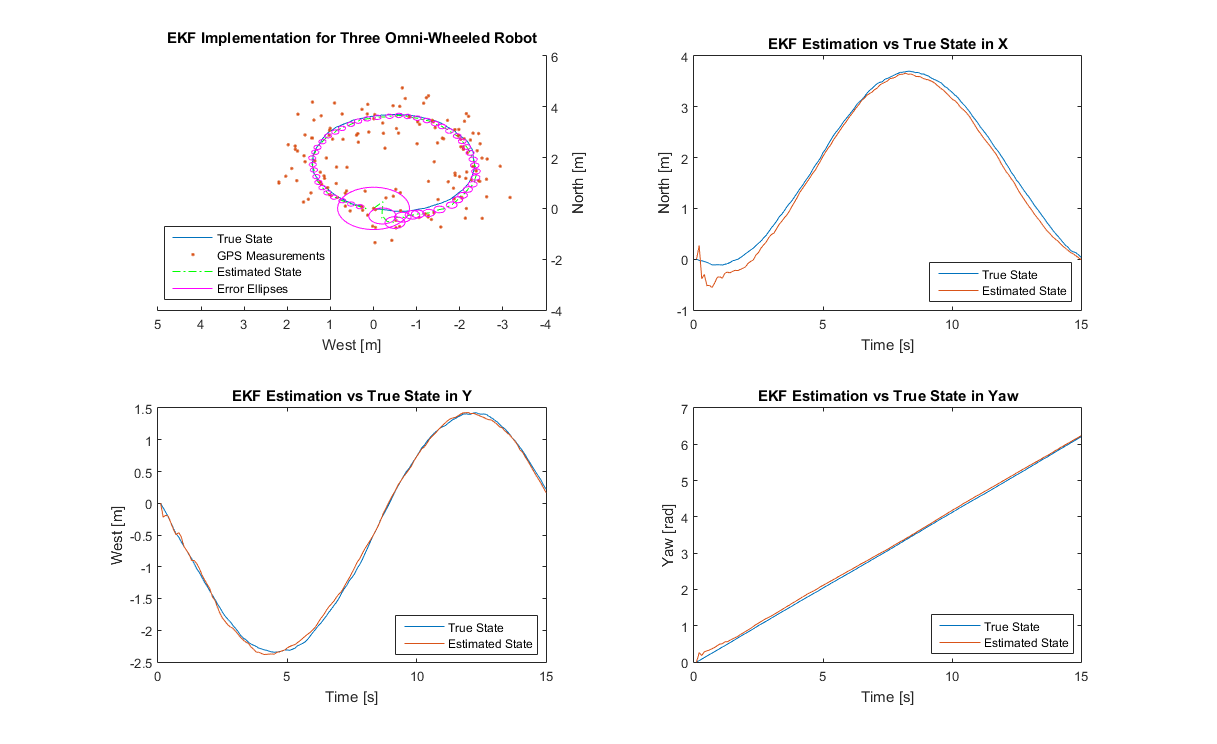
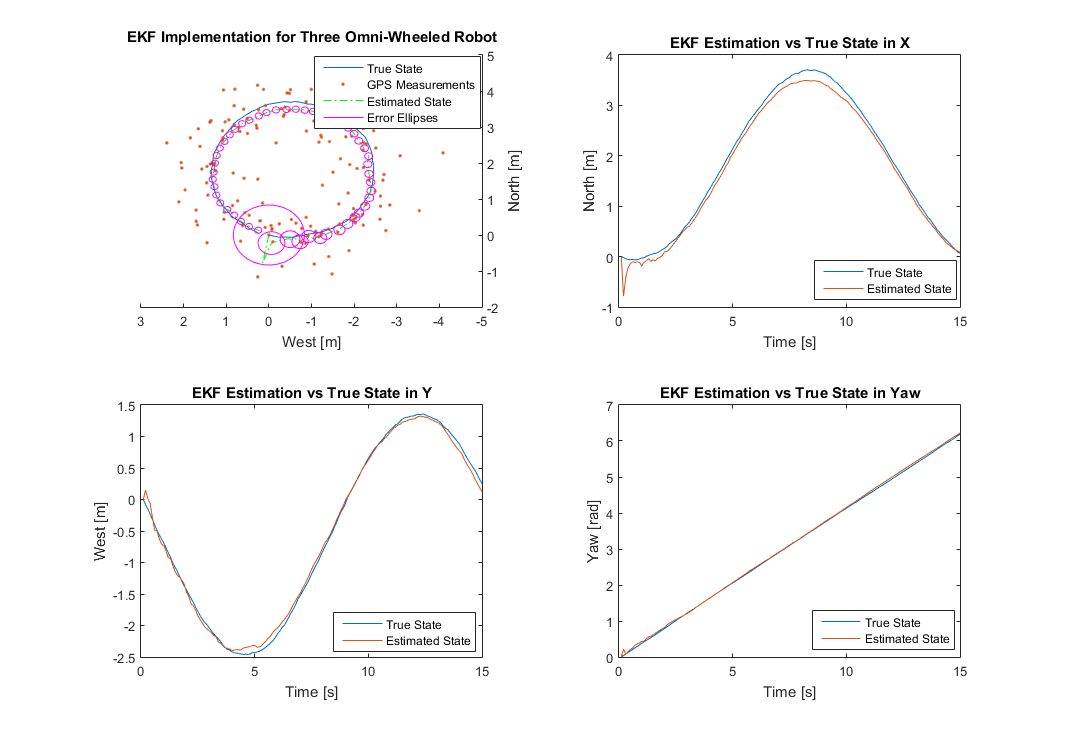
Begin A2

diff --git a/Homework-2/motion_model.m b/Homework-2/motion_model.m
@@ -1,0 +1,75 @@
+r = 1;
+K_STEER = 1;
+dt = 0.1;
+L = 0.3;
+A = eye(3);
+cov_dist = [0.02 0 0;
+            0 0.02 0;
+            0 0 pi/180;].^2;
+
+u = [];
+T = 1:dt:20;
+
+for k = 1:length(T)
+   u(:,k) = [3;
+             (10-T(k))*pi/180];
+end
+
+
+x = zeros(3,1);
+
+[REx, Rex] = eig(cov_dist);
+
+points_x = [0, 20, 20, 0, 0];
+points_y = [0, 0,   5, 5, -1];
+
+for k = 1:length(T)
+    % Controller
+    path_ang = atan2(points_y(2) - points_y(1),...
+                     points_x(2) - points_x(1));
+    curr_ang = atan2(x(2,k) - points_y(1),...
+                     x(1,k) - points_x(1));
+    diff_ang = path_ang - curr_ang;
+    
+    distance = sqrt((x(2,k) - points_y(1))^2 + (x(1,k) - points_x(1))^2);
+
+    err_d = distance * sin(diff_ang);
+    diff_dist = distance*cos(diff_ang) - sqrt((points_y(2) - points_y(1))^2 + (points_x(2) - points_x(1))^2);
+
+    carrot_x = (distance*cos(diff_ang) + r)*cos(path_ang) + points_x(1);
+    carrot_y = (distance*cos(diff_ang) + r)*sin(path_ang) + points_y(1);
+    if (diff_dist + r > 0)
+        if (size(points_x) > 3)
+            path2_ang = atan2(points_y(3) - points_y(2),...
+                              points_x(3) - points_x(2));
+            carrot_x = (diff_dist)*cos(path2_ang) + points_x(2);
+            carrot_y = (diff_dist)*sin(path2_ang) + points_y(2);
+        else
+            carrot_x = points_x(2);
+            carrot_y = points_y(2);
+        end
+    end
+    
+    if (abs(diff_dist) < r)
+        points_x = points_x(2:end);
+        points_y = points_y(2:end);
+        if (size(points_x) == 1)
+            break;
+        end
+    end
+    
+    carr_ang =  atan2(carrot_y - x(2,k),...
+                      carrot_x - x(1,k));
+    err_h = carr_ang - x(3,k);
+    u(2,k) = K_STEER * err_h;
+
+	% Motion Model
+    Ex = REx*sqrt(Rex)*randn(3,1);
+    Bu = [cos(x(3,k));
+          sin(x(3,k));
+          tan(u(2,k))/L;]*u(1,k)*dt;
+
+    x(:, k+1) = A*x(:, k) + Bu + Ex;
+end
+
+plot(x(1,:), x(2,:))

diff --git a/Homework-1/simulation.m b/Homework-1/simulation.m
@@ -39,6 +39,21 @@ u = repmat(u, 1, T/dt);
 
 [ x_true, y, x_est, x_cov ] = sim_motion_model(A, B, C, D, u, cov_dist, cov_meas, cov_meas, T);
 
+figure(8)
+hold on
+plot(x_true(1, :), x_true(2, :));
+scatter(y(1, :), y(2, :), '.');
+plot(x_est(1, :), x_est(2, :), 'g-.');
+for i = 1:3:150
+    error_ellipse(x_cov(1:2, 1:2, i), x_est(1:2, i), 'style', 'm');
+end
+legend('True State', 'GPS Measurements', 'Estimated State', 'Error Ellipses');
+camroll(90)
+xlabel('North [m]')
+ylabel('West [m]')
+title('EKF Implementation for Three Omni-Wheeled Robot')
+hold off
+
 figure(1);
 subplot(2, 2, 1)
 % X Y Plot of the True State, Measurements and Error
@@ -83,13 +98,12 @@ title('EKF Estimation vs True State in Yaw')
 %% Drive with wheel speeds Multirate EKF
 [ x_true, y, x_est, x_cov ] = sim_motion_model(A, B, C, D, u, cov_dist, cov_meas, cov_meas_corr, T);
 
-figure(2);
-subplot(2, 2, 1)
+figure(7)
 plot(x_true(1, :), x_true(2, :));
 
 hold on
 scatter(y(1, :), y(2, :), '.');
-plot(x_est(1, :), x_est(2, :), '-.');
+plot(x_est(1, :), x_est(2, :), 'g-.');
 for i = 1:1:150
     error_ellipse(x_cov(1:2, 1:2, i), x_est(1:2, i), 'style', 'm');
 end
@@ -99,7 +113,22 @@ xlabel('North [m]')
 ylabel('West [m]')
 title('Multi Rate EKF Implementation for Three Omni-Wheeled Robot')
 hold off
+figure(2);
+subplot(2, 2, 1)
+plot(x_true(1, :), x_true(2, :));
 
+hold on
+scatter(y(1, :), y(2, :), '.');
+plot(x_est(1, :), x_est(2, :), 'g-.');
+for i = 1:1:150
+    error_ellipse(x_cov(1:2, 1:2, i), x_est(1:2, i), 'style', 'm');
+end
+legend('True State', 'GPS Measurements', 'Estimated State', 'Error Ellipses');
+camroll(90)
+xlabel('North [m]')
+ylabel('West [m]')
+title('Multi Rate EKF Implementation for Three Omni-Wheeled Robot')
+hold off
 
 subplot(2, 2, 2)
 time = dt:dt:15;

diff --git a/Homework-2/sim_motion_model.m b/Homework-2/sim_motion_model.m
@@ -1,0 +1,22 @@
+function [ x ] = sim_motion_model(u, cov_dist, T, dt)
+%UNTITLED Summary of this function goes here
+%   Detailed explanation goes here
+
+    L = 0.3;
+    A = eye(3);
+    x = zeros(3,1);
+
+    [REx, Rex] = eig(cov_dist);
+
+    for k = 1:length(T)
+        Ex = REx*sqrt(Rex)*randn(3,1);
+
+        Bu = [cos(x(3,k));
+              sin(x(3,k));
+              tan(u(2,k))/L;]*u(1,k)*dt;
+
+        x(:, k+1) = A*x(:, k) + Bu + Ex;
+    end
+
+end
+
